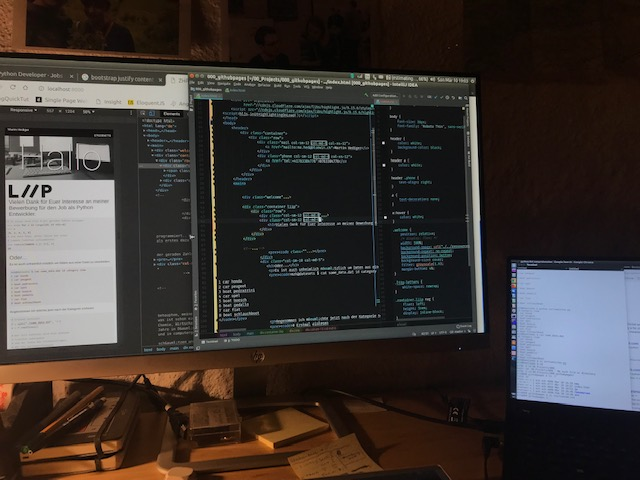
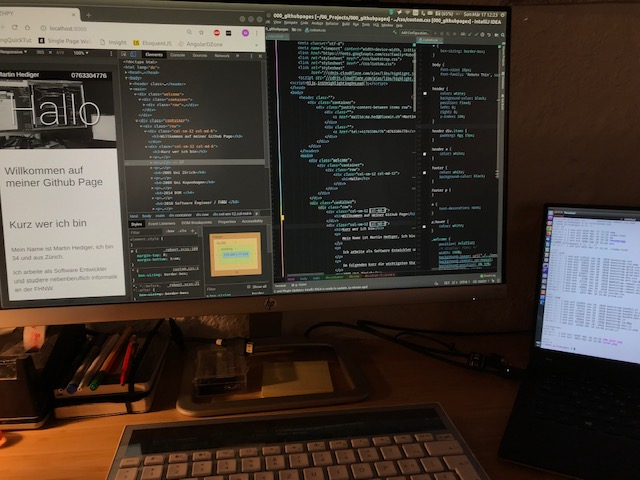
new pic

diff --git a/index.html b/index.html
@@ -38,27 +38,7 @@
             <div class="container">
                 <div class="row">
                     <div class="col-sm-12 col-md-6">
-                        <h3>Vielen Dank für Euer Interesse an meiner Bewerbung f&uuml;r den Job als Python Entwickler bei</h3>
-
-                        <div class="liip">
-                            <span class="liip-letters">
-
-                        <svg class="logo__L" xmlns="http://www.w3.org/2000/svg" viewBox="0 0 32.7 49">
-                            <path d="M0.1,46.8h29.6v-9.7H11.2V2.5H0.4v44.3H0.1z M0.1,46.8h29.6v-9.7H11.2V2.5H0.4v44.3H0.1z"></path>
-                        </svg>
-                        <svg class="logo__II" xmlns="http://www.w3.org/2000/svg" viewBox="0 0 63.8 49">
-                            <path d="M13.5,48.3L35.2,5.1l-9.6-4.9L3.8,43.4L13.5,48.3 M38.6,48.3L60.4,5.1l-9.7-4.9L28.9,43.4
-  L38.6,48.3            "></path>
-                        </svg>
-                            <path d="M3.4,2.5v44.3h10.8V31h6.6c9.8,0,15-7,15-14.2c0-7.3-5.3-14.2-15-14.2H3.4L3.4,2.5z M14.3,12.3
-  h6.1c3,0,4        .7,2.2,4.7,4.5s-1.7,4.5-4.7,4.5h-6.1V12.3L14.3,12.3z"></path>
-                            </svg>
-                            <svg class="logo__P" xmlns="http://www.w3.org/2000/svg" viewBox="0 0 35.9 49">
-                            <path d="M3.4,2.5v44.3h10.8V31h6.6c9.8,0,15-7,15-14.2c0-7.3-5.3-14.2-15-14.2H3.4L3.4,2.5z M14.3,12.3
-  h6.1c3,0,4.7,2.2,4.7,4.5s-1.7,4.5-4.7,4.5h-6.1V12.3L14.3,12.3z"></path>
-                        </svg>
-                        </span>
-                        </div>
+                        <h3>Willkommen auf meiner Github Page</h3>
                     </div>
                     <div class="col-sm-12 col-md-6">
                         <h3>Kurz wer ich bin</h3>
